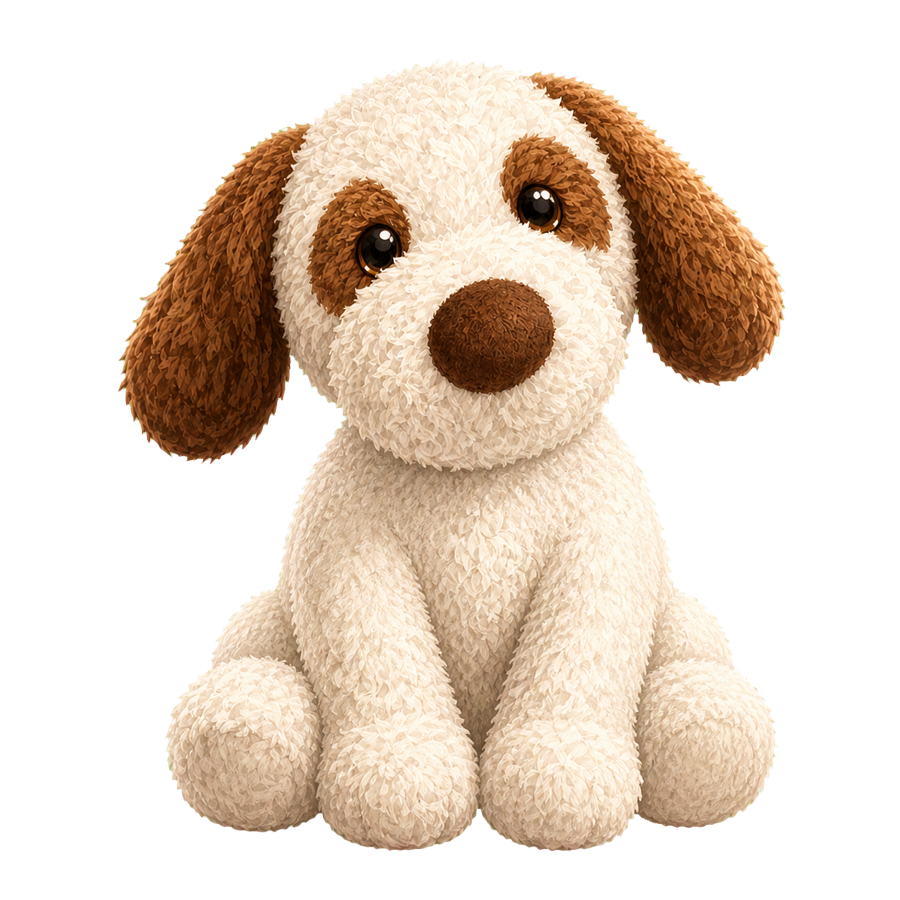
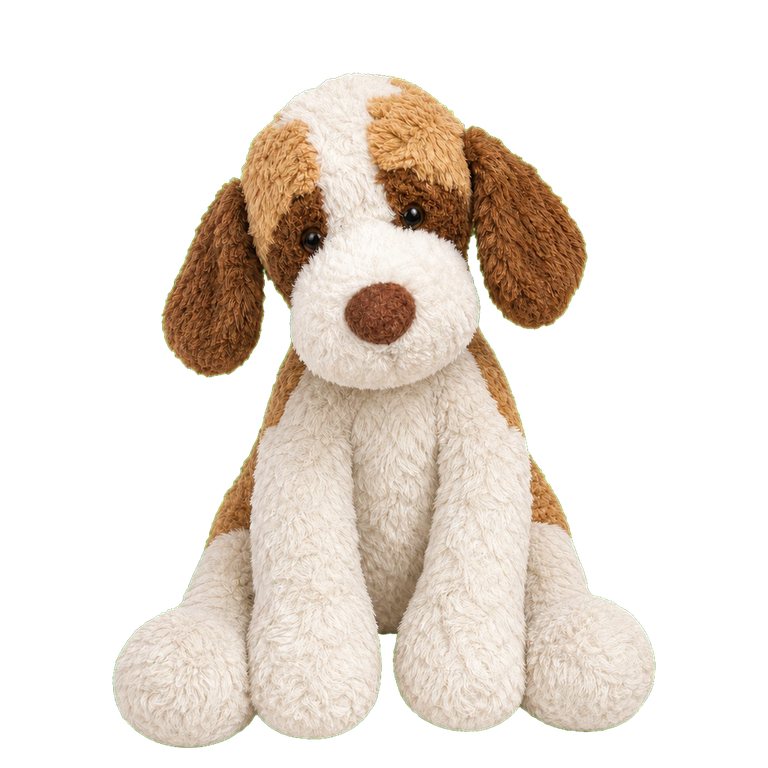
统一学习导航的白白真实形象

diff --git a/sw.js b/sw.js
@@ -1,5 +1,5 @@
-const CACHE = "learning-planet-v6";
-const CORE = ["./", "./index.html", "./app.js", "./manifest.json", "./assets/baibai-holiday-cutout.webp"];
+const CACHE = "learning-planet-v7";
+const CORE = ["./", "./index.html", "./app.js", "./manifest.json", "./assets/baibai-base.png"];
 self.addEventListener("install", e => e.waitUntil(caches.open(CACHE).then(c => c.addAll(CORE)).then(() => self.skipWaiting())));
 self.addEventListener("activate", e => e.waitUntil(caches.keys().then(keys => Promise.all(keys.filter(k => k !== CACHE).map(k => caches.delete(k)))).then(() => self.clients.claim())));
 self.addEventListener("fetch", e => {

diff --git a/tests/test.js b/tests/test.js
@@ -22,7 +22,7 @@ ok($("#chinesePortal").href === "https://nevergiveup0618.github.io/Chinese/?v=32
 $("#englishPortal").addEventListener("click", e => e.preventDefault(), {once:true});
 $("#englishPortal").dispatchEvent(new w.MouseEvent("click", {bubbles:true,cancelable:true}));
 ok($("#openingMask").classList.contains("on") && $("#openingText").textContent.includes("英语"), "★ 点击入口立即显示正在打开，不再像没点中");
-ok(!!$(".baibai") && $(".baibai").getAttribute("src").includes("baibai-holiday-cutout.webp"), "语文入口换成戴圣诞树帽和绿色披风的白白抠图");
+ok(!!$(".baibai") && $(".baibai").getAttribute("src").includes("baibai-base.png"), "语文入口使用按实物照片重建的白白母版");
 ok($("#coins").textContent === "321" && $("#tickets").textContent === "7", "只读展示 sharedWallet_v1 钱包");
 ok($("#englishToday").textContent.includes("2 颗星"), "把英语进度表达成发现星星，不催任务");
 ok($("#chineseToday").textContent.includes("宝物都找到啦"), "把语文完成度表达成找到宝物");
@@ -36,7 +36,7 @@ w.localStorage.removeItem("treasureWriting_v1");
 w.learningHub.paint();
 ok($("#coins").textContent === "0" && $("#englishToday").textContent.includes("等你来玩"), "缺失或损坏存档时轻松邀请，不白屏");
 ok(!app.includes("setItem("), "导航页不写入两边的学习存档");
-ok(fs.readFileSync(path.join(ROOT,"sw.js"),"utf8").includes("learning-planet-v6"), "缓存号已升级");
+ok(fs.readFileSync(path.join(ROOT,"sw.js"),"utf8").includes("learning-planet-v7"), "缓存号已升级");
 ok(fs.readFileSync(path.join(ROOT,"sw.js"),"utf8").includes('fallback || fresh'), "★ 慢网络优先显示缓存页并在后台更新");
 ok(!w.document.body.textContent.includes("辛苦") && !w.document.body.textContent.includes("未完成"), "★ 导航页不使用制造压力的文案");
 

diff --git a/index.html b/index.html
@@ -56,7 +56,7 @@
         <div class="portalContent">
           <div class="subject"><span class="subjectTag">WRITING ADVENTURE</span><span class="today" id="chineseToday">等你来寻宝 ✦</span></div>
           <h2>寻宝作文记</h2><p>走遍城市、收集线索，把发现写进探险护照。</p>
-          <div class="scene"><div class="journal" aria-hidden="true"></div><img class="baibai" src="assets/baibai-holiday-cutout.webp" alt="戴圣诞树帽、穿绿色披风的白白"></div>
+          <div class="scene"><div class="journal" aria-hidden="true"></div><img class="baibai" src="assets/baibai-base.png" alt="陪伴孩子五年的毛绒小狗白白"></div>
           <div class="go"><span id="chineseAction">翻开探险手账</span><span class="arrow">→</span></div><div class="progress"><i id="chineseProgress"></i></div>
         </div>
       </a>